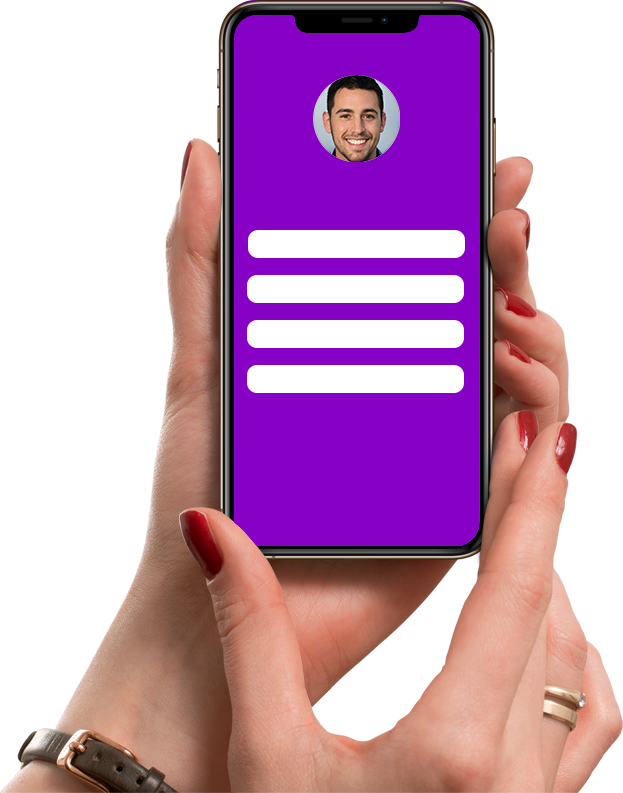
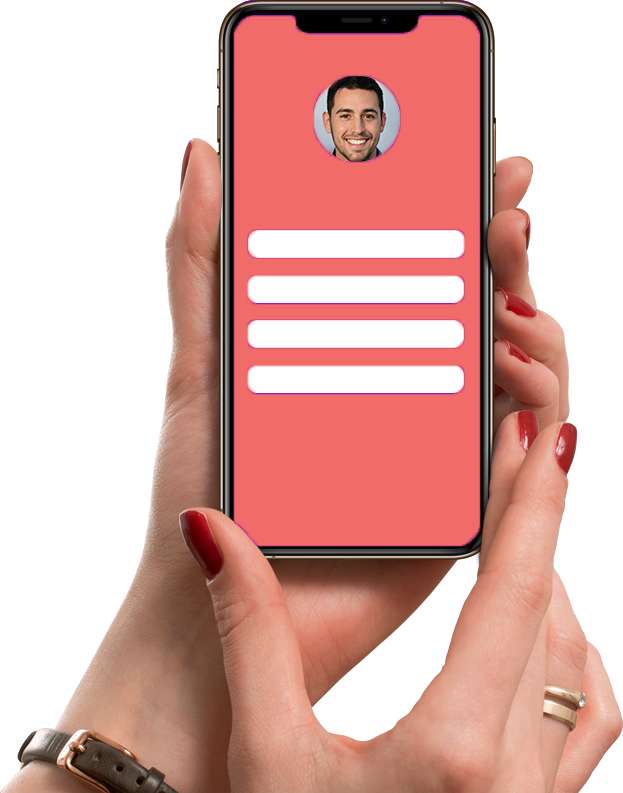
j

Changed region(s): [[0.366, 0.0, 0.7929, 0.6961]]

diff --git a/Lagi/non-user/index.html b/Lagi/non-user/index.html
@@ -82,21 +82,21 @@
             <div class="feature col">
 
               <div class="list-group">
-                <div class=" d-flex gap-3 py-3 my-5" aria-current="true">
-                  <i class="bi bi-hand-thumbs-up fs-1" style="color: #f16c69;"></i>
+                <div class=" d-flex gap-3 py-3 px-3 my-5 rounded" aria-current="true" style="background-color: #f16c69;">
+                  <i class="bi bi-hand-thumbs-up fs-1 text-light" ></i>
                   <div class="d-flex gap-2 w-100 justify-content-between">
                     <div>
-                      <h6 class="mb-0" style="color: #f16c69;">Kualitas Premium</h6>
-                      <p class="mb-0 opacity-75">Dibuat dengan kualitas terbaik yang akan memuaskan.</p>
+                      <h6 class="mb-0 text-light" >Kualitas Premium</h6>
+                      <p class="mb-0 opacity-75 text-light">Dibuat dengan kualitas terbaik yang akan memuaskan.</p>
                     </div>
                   </div>
                 </div>
-                <div class="d-flex gap-3 py-3 my-5" aria-current="true">
-                  <i class="bi bi-people fs-1" style="color: #f16c69;"></i>
+                <div class="d-flex gap-3 py-3 px-3 my-5 rounded" aria-current="true" style="background-color: #f16c69;">
+                  <i class="bi bi-people fs-1 text-light"></i>
                   <div class="d-flex gap-2 w-100 justify-content-between">
                     <div>
-                      <h6 class="mb-0" style="color: #f16c69;">Ramah Pengguna</h6>
-                      <p class="mb-0 opacity-75">Desain sederhana yang mudah dipahami oleh semua pengguna.</p>
+                      <h6 class="mb-0 text-light" >Ramah Pengguna</h6>
+                      <p class="mb-0 opacity-75 text-light">Desain sederhana yang mudah dipahami oleh semua pengguna.</p>
                     </div>
                   </div>
                 </div>
@@ -108,21 +108,21 @@
             </div>
             <div class="feature col">
               <div class="list-group">
-                <div class=" d-flex gap-3 py-3 my-5" aria-current="true">
-                  <i class="bi bi-palette fs-1" style="color: #f16c69;"></i>
+                <div class=" d-flex gap-3 py-3 px-3 my-5 rounded" aria-current="true" style="background-color: #f16c69;">
+                  <i class="bi bi-palette fs-1 text-light" ></i>
                   <div class="d-flex gap-2 w-100 justify-content-between">
                     <div>
-                      <h6 class="mb-0" style="color: #f16c69;">Desain Unik</h6>
-                      <p class="mb-0 opacity-75">Desain yang unik, berbeda dengan website lainnya.</p>
+                      <h6 class="mb-0 text-light">Desain Unik</h6>
+                      <p class="mb-0 opacity-75 text-light">Desain yang unik, berbeda dengan website lainnya.</p>
                     </div>
                   </div>
                 </div>
-                <div class="d-flex gap-3 py-3 my-5" aria-current="true">
-                  <i class="bi bi-heart fs-1" style="color: #f16c69;"></i>
+                <div class="d-flex gap-3 py-3 px-3 my-5 rounded" aria-current="true" style="background-color: #f16c69;">
+                  <i class="bi bi-heart fs-1 text-light"></i>
                   <div class="d-flex gap-2 w-100 justify-content-between">
                     <div>
-                      <h6 class="mb-0" style="color: #f16c69;">Dibuat dengan Cinta</h6>
-                      <p class="mb-0 opacity-75">Dibuat dengan tulus, dibuat dengan hal yang terbaik.</p>
+                      <h6 class="mb-0 text-light">Dibuat dengan Cinta</h6>
+                      <p class="mb-0 opacity-75 text-light">Dibuat dengan tulus, dibuat dengan hal yang terbaik.</p>
                     </div>
                   </div>
                 </div>

diff --git a/Lagi/user/index.html b/Lagi/user/index.html
@@ -84,21 +84,21 @@
             <div class="feature col">
 
               <div class="list-group">
-                <div class=" d-flex gap-3 py-3 my-5" aria-current="true">
-                  <i class="bi bi-hand-thumbs-up fs-1" style="color: #f16c69;"></i>
+                <div class=" d-flex gap-3 py-3 px-3 my-5 rounded" aria-current="true" style="background-color: #f16c69;">
+                  <i class="bi bi-hand-thumbs-up fs-1 text-light" ></i>
                   <div class="d-flex gap-2 w-100 justify-content-between">
                     <div>
-                      <h6 class="mb-0" style="color: #f16c69;">Kualitas Premium</h6>
-                      <p class="mb-0 opacity-75">Dibuat dengan kualitas terbaik yang akan memuaskan.</p>
+                      <h6 class="mb-0 text-light" >Kualitas Premium</h6>
+                      <p class="mb-0 opacity-75 text-light">Dibuat dengan kualitas terbaik yang akan memuaskan.</p>
                     </div>
                   </div>
                 </div>
-                <div class="d-flex gap-3 py-3 my-5" aria-current="true">
-                  <i class="bi bi-people fs-1" style="color: #f16c69;"></i>
+                <div class="d-flex gap-3 py-3 px-3 my-5 rounded" aria-current="true" style="background-color: #f16c69;">
+                  <i class="bi bi-people fs-1 text-light"></i>
                   <div class="d-flex gap-2 w-100 justify-content-between">
                     <div>
-                      <h6 class="mb-0" style="color: #f16c69;">Ramah Pengguna</h6>
-                      <p class="mb-0 opacity-75">Desain sederhana yang mudah dipahami oleh semua pengguna.</p>
+                      <h6 class="mb-0 text-light" >Ramah Pengguna</h6>
+                      <p class="mb-0 opacity-75 text-light">Desain sederhana yang mudah dipahami oleh semua pengguna.</p>
                     </div>
                   </div>
                 </div>
@@ -110,21 +110,21 @@
             </div>
             <div class="feature col">
               <div class="list-group">
-                <div class=" d-flex gap-3 py-3 my-5" aria-current="true">
-                  <i class="bi bi-palette fs-1" style="color: #f16c69;"></i>
+                <div class=" d-flex gap-3 py-3 px-3 my-5 rounded" aria-current="true" style="background-color: #f16c69;">
+                  <i class="bi bi-palette fs-1 text-light" ></i>
                   <div class="d-flex gap-2 w-100 justify-content-between">
                     <div>
-                      <h6 class="mb-0" style="color: #f16c69;">Desain Unik</h6>
-                      <p class="mb-0 opacity-75">Desain yang unik, berbeda dengan website lainnya.</p>
+                      <h6 class="mb-0 text-light">Desain Unik</h6>
+                      <p class="mb-0 opacity-75 text-light">Desain yang unik, berbeda dengan website lainnya.</p>
                     </div>
                   </div>
                 </div>
-                <div class="d-flex gap-3 py-3 my-5" aria-current="true">
-                  <i class="bi bi-heart fs-1" style="color: #f16c69;"></i>
+                <div class="d-flex gap-3 py-3 px-3 my-5 rounded" aria-current="true" style="background-color: #f16c69;">
+                  <i class="bi bi-heart fs-1 text-light"></i>
                   <div class="d-flex gap-2 w-100 justify-content-between">
                     <div>
-                      <h6 class="mb-0" style="color: #f16c69;">Dibuat dengan Cinta</h6>
-                      <p class="mb-0 opacity-75">Dibuat dengan tulus, dibuat dengan hal yang terbaik.</p>
+                      <h6 class="mb-0 text-light">Dibuat dengan Cinta</h6>
+                      <p class="mb-0 opacity-75 text-light">Dibuat dengan tulus, dibuat dengan hal yang terbaik.</p>
                     </div>
                   </div>
                 </div>
